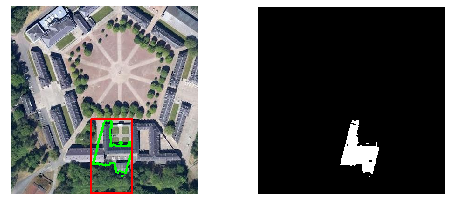
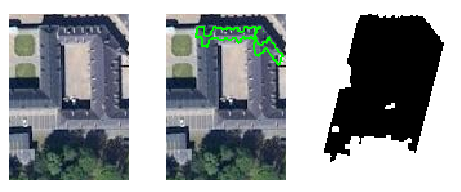
final

diff --git a/code/matlab/src/main_segmentation.m b/code/matlab/src/main_segmentation.m
@@ -7,38 +7,40 @@ close all
 clear all
 rng('default');
 %% read image
-dataPath='/home/li/MVA/Graphcut_shadow/data/lille/';
+dataPath='/home/li/MVA/Graphcut_shadow/data/vatican/';
 I=imread([dataPath '/Image']);
 I=double(I)./255;
 % I=imread('/home/li/MVA/Graphcut_shadow/data/toulouse1_qb.gif');
 % I=imread('/home/li/MVA/Graphcut_shadow/data/zebra.jpg');
 hf=figure,imshow(I);
-set(gca,'position',[0 0 1 1],'units','normalized')
+% set(gca,'position',[0 0 1 1],'units','normalized')
 % saveas(hf,[dataPath],'png');
 %% read vegetation mask
 veg_mask= load([dataPath 'veg_mask.mat'],'-ASCII');
 hold on, drawMaskContour(veg_mask);title('vegetation mask');
-set(gca,'position',[0 0 1 1],'units','normalized')
-saveas(hf,[dataPath 'veg'],'png');
+% set(gca,'position',[0 0 1 1],'units','normalized')
+% saveas(hf,[dataPath 'veg'],'png');
 %% compute the shadow mask on image
 I_gray=rgb2gray(I);
+for test_para=0:0.5:6
 para.method='croissance';
-para.k=6;% kmeans centers
-para.tolerance=0.2;%growing region threshold
+para.k=10;% kmeans centers
+para.tolerance=0.15;%growing region threshold
 
-para.theta=75*pi/180; %shadow direction lille
-para.l=5; %the minimum length of a shadow to keep
+% para.theta=75*pi/180; %shadow direction lille
+para.theta=110*pi/180; %shadow direction van
+para.l=3;%4; %the minimum length of a shadow to keep
 shadow=getShadowMask(I_gray,para);
 figure, drawMask(I,shadow,[1 0 0]);
 
 %% clean the shadow by eliminating the vegetation
-
+vsth=0.15;
 [L, num] = bwlabel(shadow, 8);
 figure,imagesc(L);
 %h_out=figure(5),imshow(I_sub),hold on,drawMaskContour(shadow);
 para_fuzzy.sigma=5;
 para_fuzzy.theta=para.theta;
-para_fuzzy.l=para.l;
+para_fuzzy.l=5;
 % get the i connect component in shadow
 shadow_clean=zeros(size(I_gray));
 for i=0:num
@@ -51,7 +53,7 @@ for i=0:num
         s2=1;
         objet_seuil=(objet>max(objet(:))*s1 & objet<max(objet(:))*s2);
         score=sum(veg_mask(objet_seuil>0.5))/length(shadow_i);
-        if (score<0.05)
+        if (score<vsth)
             shadow_clean(shadow_i)=1;
         end
    end
@@ -68,20 +70,20 @@ figure,imshow(shadow_clean)
 % figure,imshow(double(L_s==num_s(part)))
 %%
 building=zeros(size(I,1),size(I,2));
-for part=3
+for part=1:40
 % part=8;
 part
 % building segmentation for each component
 
 shadow_i=(L_s==num_s(part));
-para_fuzzy.size=10;
-para_fuzzy.theta=para.theta;
-para_fuzzy.l=10;
+para_fuzzy_flat.size=10;
+para_fuzzy_flat.theta=para.theta;
+para_fuzzy_flat.l=10;
 
-ROI=fuzzy_flat(shadow_i, para_fuzzy);
+ROI=fuzzy_flat(shadow_i, para_fuzzy_flat);
 window_i=getSubwindow(ROI);
 ROI=(ROI&(~veg_mask));
-figure,subplot(121),imshow(I),hold on,drawMaskContour(ROI),hold on, drawWindows(window_i,[1 0 0]),subplot(122),imshow(ROI)
+% figure,subplot(121),imshow(I),hold on,drawMaskContour(ROI),hold on, drawWindows(window_i,[1 0 0]),subplot(122),imshow(ROI)
 %%
 %
 xmin=window_i(1);
@@ -110,16 +112,16 @@ backgroundMask=(~ROI_sub)|(veg_sub);
 %
 if ( sum(forgroundMask(:))>30)
     para.max_iteration=8;
-    para.beta=3;%gradiant tracking parameter
-    para.gamma=6;%ising regularity
+    para.beta=3.5;%gradiant tracking parameter
+    para.gamma=5;%ising regularity
     para.fc=5;
     [Ireg,evol]=grabcut(I_sub,forgroundMask,backgroundMask,para);
-    % plot
-    figure(),subplot(121),imshow(I_sub);subplot(122),imshow(Ireg);
-    
-    h=figure(),%drawMask(I_rgb,Ireg,[1,0,0]);
-    imshow(I_sub)
-    hold on,drawMaskContour(Ireg,[0 0 1])
+%     % plot
+%     figure(),subplot(121),imshow(I_sub);subplot(122),imshow(Ireg);
+%     
+%     h=figure(),%drawMask(I_rgb,Ireg,[1,0,0]);
+%     imshow(I_sub)
+%     hold on,drawMaskContour(Ireg,[0 0 1])
     % saveas(h,'example','pdf')
     %
     idx_reg=find(Ireg>0);
@@ -129,20 +131,20 @@ if ( sum(forgroundMask(:))>30)
     idx_glob=sub2ind(size(building),yglob,xglob);
     %
     building(idx_glob)=1;
-    figure, subplot(2,3,1),imshow(I_sub);
-    for i=1:3
-%        subplot(2,3,i+1), imshow(evol(:,:,i))
-        figure,imshow(I_sub)
-        hold on,drawMaskContour(evol(:,:,i),[0 0 1])
-    end
-end
-end
-%%
-    for i=1:5
-       subplot(2,3,i+1), imshow(evol(:,:,i))
+%     figure, subplot(2,3,1),imshow(I_sub);
+%     for i=1:3
+% %        subplot(2,3,i+1), imshow(evol(:,:,i))
 %         figure,imshow(I_sub)
-%         hold on,drawMaskContour(Ireg,[0 0 1])
-    end
+%         hold on,drawMaskContour(evol(:,:,i),[0 0 1])
+%     end
+end
+end
+% %%
+%     for i=1:5
+%        subplot(2,3,i+1), imshow(evol(:,:,i))
+% %         figure,imshow(I_sub)
+% %         hold on,drawMaskContour(Ireg,[0 0 1])
+%     end
 %%
 figure,drawMask(I,double(building),[0 0 1]);
 % figure, imshow(I), hold on, drawMaskContour(building)
@@ -150,6 +152,29 @@ figure,drawMask(I,double(building),[0 0 1]);
 Igt=imread([dataPath '/Image_groundtruth.png']);
 Igt=(double(rgb2gray(Igt))./255)<0.9;
 figure,drawMask(I,double(Igt),[1 0 0]);
+%% F1 performance
+TP_m=building&Igt;
+% A=randn(size(Igt));
+% A=A>mean(A(:));
+% TP_m=A&Igt;
+FP_m=building&(~Igt);
+FN_m=(~building)&Igt;
+
+TP=length(find(TP_m>0));
+FP=length(find(FP_m>0));
+FN=length(find(FN_m>0));
+
+recall=TP/(TP+FP);
+precision=TP/(TP+FN);
+F1=2*recall*precision/(recall+precision)
+%%
+mask(:,:,1)=TP_m;
+mask(:,:,2)=FP_m;
+mask(:,:,3)=FN_m;
+hf=figure,drawMask(I,double(mask),[0 1 0;1 0 0; 0 0 1]);
+% set(gca,'position',[0 0 1 1],'units','normalized')
+% saveas(hf,[dataPath sprintf('/F1_%0.3f_tau_%0.3f_sl_%0.2f_fl_%0.2f_svl_%0.2f_vsth_%0.3f_gamma_%0.3f_beta_%0.3f',F1,para.tolerance,para.l,para_fuzzy_flat.l,para_fuzzy.l,vsth,para.gamma,para.beta)],'png');
+end
 
 
 

diff --git a/doc/rapport/graph.tex b/doc/rapport/graph.tex
@@ -223,18 +223,16 @@ To extract the building from the map by using the shadows, we need to extract th
 An easy and naive way to detect shadows is to apply a simple threshold on the gray scale image because intuitively, the shadows are the darkest regions in a map. However, this method would require human interference because the threshold would depend on the map we have and it could have much variation from one map to another. Thus, it is impossible to find a universal threshold for all maps and therefore this method is non-automatic.\\
 Thus, an idea to automatize the threshold is to extract the threshold value from the image instead of giving the value by human. As we discussed above, the shadow correspond to the most dark regions in the gray scale image, therefore, by choosing the first peak in the histogram, we can extract the darkest regions in the map. \\
 A method to realize this idea is the K-means. We need to give the number of clusters $n$ we want to get, and the algorithm would give the partition of the $n$ cluster finally. Then we use the limit value $\theta$ between the first and second cluster as the threshold we want. In this step, the number of clusters $n$ could change the result of partition and therefore the threshold $\theta$. In our experiences, 5 or 6 clusters would work well to find the good threshold.\\
-\insertF{shadow_kmeans}{Detected shadow using k-means}{0.5}{1}
-\FloatBarrier
 However, this result is not good enough as we know that if the first two clusters are partly overlapped, then a part of shadow would be considered in the second cluster and thus will not be detected.\\ 
 Since we have only used the gray scale information in this method, we could improve it by adding the geometric information. We will use the shadow detected in the first step as seed to be propagated by region-growing method. For each neighbour of each seed, we compare the difference between their gray scale values, and if the difference is less than our tolerance $\tau$, they are considered as shadow and we add them to the seed set. We repeat the process until there is no change in the seed set and we say the shadow is the seed set. In our tests, we choose $\tau =0.2$.\\
-\insertF{shadow_croissance}{Detected shadow using region-growth}{0.5}{1}
+\insertTwoF{shadow_kmeans}{shadow_croissance}{Right: threshold using first peak of k means; Left: result after applying region-growth}{0.45}{1}
 Finally, we need to clean the shadow with the solar information. As the photo is taken at a specific time we can find the solar elevation angle $\phi$, the height $T_{height}$ and the directional information $\lambda$. The idea is to apply a morphological opening to each shadow component using a specific directional flat structuring element $\sigma_{L,lambda}$ generated from the known solar information: the directional information $\lambda$ with an edge length $L$. The edge length could be calculated by using $\phi$, $T_{height}$ and image resolution $c$. \\
 $L=\lceil \frac{T_{height}}{tan \phi.c}\rceil$.\\
 To construct the structuring element, we can use the Bresenham line discretion algorithm [Bresenham, 1965].\\
 \insertF{se}{structuring element with $l=5$ and $\lambda=\frac{17}{12}\pi$}{0.3}{2}
+
 We then apply a morphological opening to each shadow component using the structuring to eliminating the misclassification part of shadow that we introduced in the region-growing algorithm.\\
-\insertTwoF{shadow_croissance}{shadow}{Comparison between shadow before and after cleaned by morphological opening}{0.4}{3}
-\subsubsection{Vegetation Mask}
+\insertF{difference}{Comparison between shadow before and after cleaned by morphological opening}{0.9}{3}
 \subsubsection{Fuzzy Landscape}
 We can model the spatial relation between buildings and their
 shadows with a morphological fuzzy approach. Given a

diff --git a/doc/presentation/graph_cut_building.tex b/doc/presentation/graph_cut_building.tex
@@ -460,6 +460,51 @@
  
  
  \section{Experience}
+ 
+ \begin{frame}
+  \frametitle{Parameters involved}
+  \begin{center}
+    \begin{tabular}{  l   l   l }
+    \hline
+    section & parameter & value   \\ \hline  \noalign{\smallskip}  
+    shadow mask & K means centers & 8  \\ 
+    &growing region tolerance ($\tau$) & 0.15\\
+    &minimum length of shadow to be kept ($l$) & 3\\
+    vegetation mask & vegetation elimination ratio & 0.2\\
+    fuzzy landscape & Kernel size ($\kappa$) & 10 pixels\\
+    & Sigma ($\sigma$) & 5\\
+    fist level partition & foreground GMM components ($fc$) & 5\\
+     & background GMM components ($bc$) & 5\\
+     & ROI size& 10\\
+     & Isings smoothness term ($\gamma$) & 5\\
+     & gradient capture term ($\beta$) & 3.5\\ \hline
+    \end{tabular}
+\end{center}
+ \end{frame}
+ 
+ \begin{frame}
+  \frametitle{Performance Evaluation}
+  Recall, precision, $F_1$ score.
+  \begin{itemize}
+   \item TP=true positive, FP=false positive, FN=false negative.
+   \item Recall$=\frac{\arrowvert TP\arrowvert}{\arrowvert TP\arrowvert+\arrowvert FN\arrowvert}$, precision$=\frac{\arrowvert TP\arrowvert}{\arrowvert TP\arrowvert+\arrowvert FP\arrowvert}$
+   \item $F1=\frac{2 recall \times precision}{recall + precision}$
+  \end{itemize}
+    \begin{figure}[h!]
+    \centering
+    \begin{minipage}{0.45\linewidth}
+     \includegraphics<1>[width=\linewidth]{lille_i}
+    \includegraphics<2>[width=\linewidth]{res_lille}
+    \end{minipage}
+    \begin{minipage}{0.45\linewidth}
+    \includegraphics<1>[width=\linewidth]{van}
+    \includegraphics<2>[width=\linewidth]{res_vac}
+    \end{minipage}
+      \caption{Green, blue and red represent TP, FN and FP}
+  \end{figure}  
+ \end{frame}
+
+
   \begin{frame}
    {\Huge
      \vspace {0.15\textwidth}

diff --git a/code/matlab/src/vegetation_learning.m b/code/matlab/src/vegetation_learning.m
@@ -4,14 +4,14 @@ close all
 clear all
 rng('default');
 %%
-dataPath='/home/li/MVA/Graphcut_shadow/data/lille';
-I=imread('/home/li/MVA/Graphcut_shadow/data/lille/image.jpg');
+dataPath='/home/li/MVA/Graphcut_shadow/data/vatican';
+I=imread('/home/li/MVA/Graphcut_shadow/data/vatican/van.jpg');
 % I=imread('/home/li/MVA/Graphcut_shadow/data/toulouse1_qb.gif');
 %I=imread('/home/li/MVA/Graphcut_shadow/data/zebra.jpg');
 figure,imshow(I);
 %% select sub window
 % window_size=[200,200];
-window_size=[200,200];%toulouse
+window_size=[250,250];%toulouse
 % window_size=[60,60];%lille
 % window_center=[1350,1350]; %toulouse
 % window_center=[430, 430]; %lille
@@ -29,10 +29,10 @@ else
     I_sub=rgb2gray(I_rgb);
 end
 figure(),imshow(I_rgb);
-% imwrite(I_rgb,[dataPath,'/Image'],'jpg');
+imwrite(I_rgb,[dataPath,'/Image'],'jpg');
 %%
-windows_for=load([dataPath '/../veg_win.mat'],'-ASCII')
-% windows_for=getSubSample(I_rgb,[1 0 0]);
+% windows_for=load([dataPath '/../veg_win.mat'],'-ASCII')
+windows_for=getSubSample(I_rgb,[1 0 0]);
 % save([dataPath '/veg_win.mat'],'windows_for','-ASCII')
 %%
 
@@ -50,7 +50,7 @@ veg=extractFromMask(I_rgb,vegMask);
 %%
 para.max_iteration=5;
 para.beta=0.1;%gradiant tracking parameter
-para.gamma=1;%ising regularity
+para.gamma=3;%ising regularity
 
 [Ireg,evol]=grabcut(I_rgb,vegMask,[],para);
 %% plot
@@ -58,6 +58,6 @@ figure(),subplot(121),imshow(I_rgb);subplot(122),imshow(Ireg);
 
 h=figure(),%drawMask(I_rgb,Ireg,[1,0,0]);
 imshow(I_rgb)
-hold on,drawMaskContour(Ireg)
+hold on,drawMask(I_rgb,Ireg,[0 1 0])
 %%
 save([dataPath '/veg_mask.mat'],'Ireg','-ASCII')

diff --git a/code/matlab/src/drawMask.m b/code/matlab/src/drawMask.m
@@ -4,10 +4,13 @@ function I_out=drawMask(I,shadow,color)
     else
         I_rgb=I;
     end
-        shadow3=repmat(shadow,[1,1,3]);
-        shadow_rgb(:,:,1)=shadow3(:,:,1)*color(1);
-        shadow_rgb(:,:,2)=shadow3(:,:,2)*color(2);
-        shadow_rgb(:,:,3)=shadow3(:,:,3)*color(3);
-        I_out=I_rgb.*(1-shadow3)+(shadow_rgb);    
+    I_out=I_rgb;
+    for i=1:size(color,1)
+        shadow3=repmat(shadow(:,:,i),[1,1,3]);
+        shadow_rgb(:,:,1)=shadow3(:,:,1)*color(i,1);
+        shadow_rgb(:,:,2)=shadow3(:,:,2)*color(i,2);
+        shadow_rgb(:,:,3)=shadow3(:,:,3)*color(i,3);
+        I_out=I_out.*(1-shadow3)+(shadow_rgb);    
+    end
     imshow(I_out);
 end
